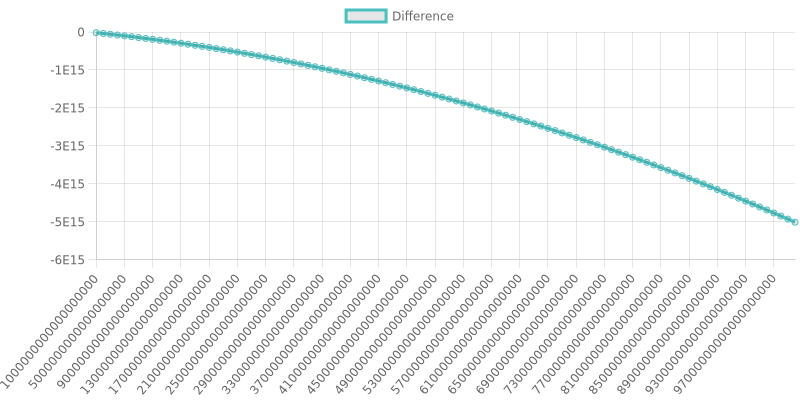
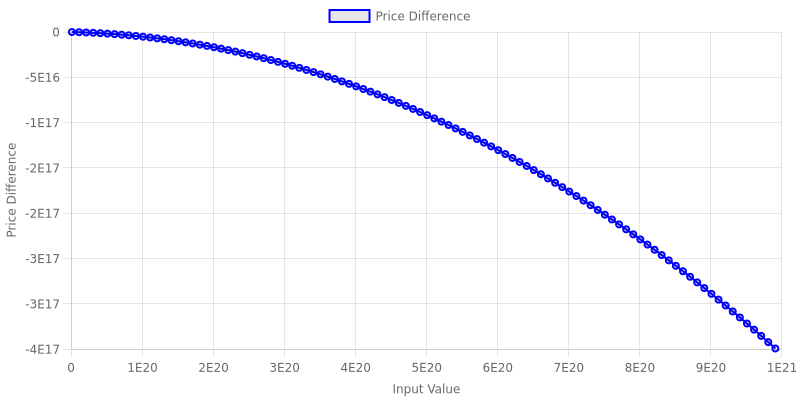
Working Charts

diff --git a/analyze.js b/analyze.js
@@ -3,7 +3,7 @@ require('./helpers/server')
 require("dotenv").config();
 
 const fs = require('fs');
-const { createCanvas, loadImage } = require('canvas');
+const { createCanvas } = require('canvas');
 const Chart = require('chart.js/auto');
 const { Big } = require('big.js')
 const ethers = require("ethers")
@@ -38,7 +38,7 @@ const main = async () => {
 
   console.log(`[${token0.address},${token1.address}]`)
 
-  const increment = Big('1000000000000000000')
+  const increment = Big('10000000000000000000')
   let input =       Big('1000000000000000000')
 
   const routerPath = [uRouter, sRouter]
@@ -68,46 +68,54 @@ const main = async () => {
   console.log(`inputValues: ${inputValues}`)
   console.log(`diffValues: ${diffValues}`)
 
-  const csv = dataPoints.map(point => [point.input, point.diff])
-  fs.writeFileSync('data.csv', 'input,diff\n' + csv.map(row => row.join(',')).join('\n'));
+  // Start the Express server and pass the data to it
+  require('./helpers/server')(inputValues, diffValues);
 
-  // Create a new canvas
-  // const canvas = createCanvas(800, 400);
-  // const ctx = canvas.getContext('2d');
+  // Create an HTML canvas element
+  const canvas = createCanvas(800, 400);
 
-  // ctx.fillStyle = 'white';
-  // ctx.fillRect(0, 0, canvas.width, canvas.height);
+  // Create a 2D context for the canvas
+  const ctx = canvas.getContext('2d');
 
-  // // Create a Chart.js chart
-  // const chart = new Chart(ctx, {
-  //   type: 'line',
-  //   data: {
-  //     labels: inputValues,  // Use inputValues as X-axis labels
-  //     datasets: [
-  //       {
-  //         label: 'Difference',
-  //         data: diffValues,  // Use diffValues as Y-axis data
-  //         borderColor: 'rgba(75, 192, 192, 1)',
-  //         fill: false,
-  //       },
-  //     ],
-  //   },
-  //   options: {
-  //     scales: {
-  //       x: {
-  //         type: 'category',
-  //         position: 'bottom',
-  //       },
-  //       y: {
-  //         beginAtZero: true,
-  //       },
-  //     },
-  //   },
-  // });
+  // Create a Chart.js chart
+  new Chart(ctx, {
+    type: 'line',
+    data: {
+      labels: inputValues, // X-axis labels
+      datasets: [
+        {
+          label: 'Price Difference',
+          data: diffValues, // Y-axis data
+          borderColor: 'blue', // Line color
+          borderWidth: 2, // Line width
+        },
+      ],
+    },
+    options: {
+      responsive: false, // Make the chart non-responsive
+      maintainAspectRatio: false, // Don't maintain aspect ratio
+      scales: {
+        x: {
+          type: 'linear',
+          position: 'bottom',
+          title: {
+            display: true,
+            text: 'Input Value',
+          },
+        },
+        y: {
+          title: {
+            display: true,
+            text: 'Price Difference',
+          },
+        },
+      },
+    },
+  });
 
-  // // Create an image file
-  // const buffer = canvas.toBuffer('image/png');
-  // fs.writeFileSync('chart.png', buffer);
+  // Save the chart to an image file
+  const chartImage = canvas.toBuffer('image/png');
+  fs.writeFileSync('chart.png', chartImage);
 
 }
 

diff --git a/chart.html b/chart.html
@@ -1,0 +1,51 @@
+<!DOCTYPE html>
+<html>
+<head>
+  <title>Price Difference Chart</title>
+  <script src="https://cdn.jsdelivr.net/npm/chart.js"></script>
+</head>
+<body>
+  <div style="width: 80%; margin: 0 auto;">
+    <canvas id="priceChart"></canvas>
+  </div>
+  <script>
+    // JavaScript code to display the chart
+    const canvas = document.getElementById('priceChart').getContext('2d');
+
+    new Chart(canvas, {
+        type: 'line',
+            data: {
+              labels: JSON.parse('INSERT_INPUT_VALUES'), // X-axis labels
+              datasets: [
+                {
+                  label: 'Token0In plotted for various amounts in the getAmountsIn function',
+                  data: JSON.parse('INSERT_DIFF_VALUES'), // Y-axis data
+                  borderColor: 'blue', // Line color
+                  borderWidth: 2, // Line width
+                },
+              ],
+            },
+            options: {
+              scales: {
+                x: {
+                  type: 'linear',
+                  position: 'bottom',
+                  title: {
+                    display: true,
+                    text: 'Input Value (i.e. reserves[0] for getAmountIn)',
+                  },
+                },
+                y: {
+                  reverse: true,
+                  title: {
+                    display: true,
+                    text: 'Price Difference (i.e. the difference between an exact price conversion, and what Uniswap will actually give you)',
+                  },
+                },
+              },
+            },
+          });
+
+  </script>
+</body>
+</html>

diff --git a/helpers/server.js b/helpers/server.js
@@ -2,6 +2,7 @@ const express = require('express')
 const path = require('path')
 const http = require('http')
 const cors = require('cors')
+const fs = require('fs');
 
 // SERVER CONFIG
 const PORT = process.env.PORT || 5000
@@ -9,3 +10,24 @@ const app = express();
 const server = http.createServer(app).listen(PORT, () => console.log(`Listening on ${PORT}\n`))
 app.use(express.static(path.join(__dirname, 'public')))
 app.use(cors({ credentials: true, origin: '*' }))
+
+// Serve the chart.html file with injected data
+app.get('/chart', (req, res) => {
+  // Read the chart.html file
+  const chartHtml = fs.readFileSync(path.join(__dirname, '..', 'chart.html'), 'utf8');
+
+  // Inject the data into the HTML
+  const updatedHtml = chartHtml
+    .replace('INSERT_INPUT_VALUES', JSON.stringify(inputValues))
+    .replace('INSERT_DIFF_VALUES', JSON.stringify(diffValues));
+
+  // Send the updated HTML as the response
+  res.send(updatedHtml);
+
+});
+
+// This function is called from analyze.js to pass the data to server.js
+module.exports = (inputValues, diffValues) => {
+  global.inputValues = inputValues; // Make inputValues globally available
+  global.diffValues = diffValues; // Make diffValues globally available
+};

diff --git a/bot.js b/bot.js
@@ -10,6 +10,7 @@ const { provider, uFactory, uRouter, sFactory, sRouter, arbitrage } = require('.
 
 // -- .ENV VALUES HERE -- //
 const arbFor = process.env.ARB_FOR // This is the address of token we are attempting to arbitrage (WETH)
+console.log(arbFor)
 const arbAgainst = process.env.ARB_AGAINST // token1 address
 const units = process.env.UNITS // Used for price display/reporting
 const difference = process.env.PRICE_DIFFERENCE
